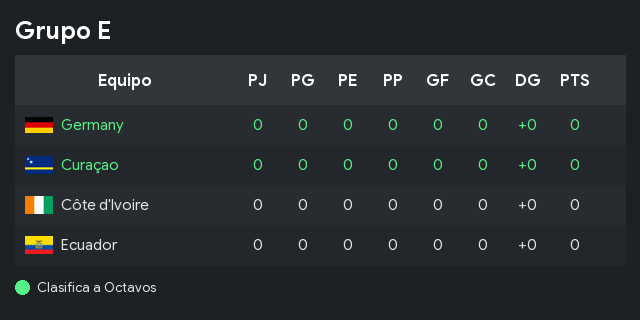
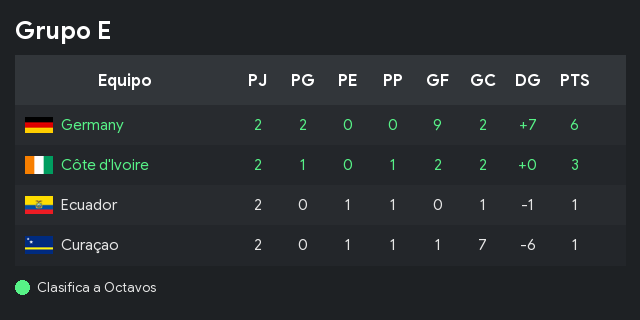
cambios finales

diff --git a/prode-bot/cogs/predicciones.py b/prode-bot/cogs/predicciones.py
@@ -60,6 +60,149 @@ def construir_embed_partidos_hoy():
 
     return embed
 
+
+ORDEN_FASES = ["Grupos", "Dieciseisavos", "Octavos", "Cuartos", "Semis", "Final"]
+
+def _label_pagina(fase, subfase):
+    """Devuelve el título de la página según fase y subfase."""
+    if fase == "Grupos":
+        return f"📋 Mis predicciones — Fecha {subfase}"
+    labels = {
+        "Dieciseisavos": "📋 Mis predicciones — 16avos de Final",
+        "Octavos":       "📋 Mis predicciones — Octavos de Final",
+        "Cuartos":       "📋 Mis predicciones — Cuartos de Final",
+        "Semis":         "📋 Mis predicciones — Semifinales",
+        "Final":         "📋 Mis predicciones — Final y 3er Puesto",
+    }
+    return labels.get(fase, f"📋 Mis predicciones — {fase}")
+
+
+def _construir_paginas(predicciones):
+    from collections import defaultdict
+
+    grupos_preds = [p for p in predicciones if p["fase"] == "Grupos"]
+    otras_preds  = [p for p in predicciones if p["fase"] != "Grupos"]
+
+    paginas = []
+
+    # ── Fase de Grupos: dividir en 3 fechas de 24 partidos ──────────────────
+    if grupos_preds:
+        conn = get_connection()
+        cursor = conn.cursor()
+        cursor.execute("""
+            SELECT id FROM partidos
+            WHERE fase = 'Grupos'
+            ORDER BY fecha_hora, id
+        """)
+        orden_global = {row["id"]: idx for idx, row in enumerate(cursor.fetchall())}
+        conn.close()
+
+        por_fecha = defaultdict(list)
+        for p in grupos_preds:
+            pos = orden_global.get(p["partido_id"], 0)
+            fecha_num = (pos // 24) + 1
+            por_fecha[fecha_num].append(p)
+
+        for fecha_num in [1, 2, 3]:  # siempre las 3 fechas
+            preds_fecha = sorted(por_fecha.get(fecha_num, []), key=lambda x: x["fecha_hora"])
+            paginas.append((f"📋 Mis predicciones — Fecha {fecha_num}", preds_fecha))
+
+    # ── Fases eliminatorias ──────────────────────────────────────────────────
+    fases_orden = ["Dieciseisavos", "Octavos", "Cuartos", "Semis", "Final"]
+    por_fase = defaultdict(list)
+    for p in otras_preds:
+        por_fase[p["fase"]].append(p)
+
+    for fase in fases_orden:
+        if fase in por_fase:
+            paginas.append((_label_pagina(fase, None), por_fase[fase]))
+
+    # Páginas placeholder para fases futuras sin predicciones aún
+    fases_con_preds = set(por_fase.keys())
+    for fase in fases_orden:
+        if fase not in fases_con_preds:
+            paginas.append((_label_pagina(fase, None), []))
+
+    return paginas
+
+
+def _construir_embed_pagina(titulo, preds, pagina_actual, total_paginas):
+    embed = discord.Embed(title=titulo, color=discord.Color.green())
+
+    if not preds:
+        embed.description = "_Todavía no hay predicciones para esta fase._"
+        pts_total = 0
+    else:
+        lineas = []
+        pts_total = 0
+        for p in preds:
+            fecha_display = datetime.strptime(p["fecha_hora"], "%Y-%m-%d %H:%M").strftime("%d/%m %H:%M")
+            tu_pred = f"{p['pred_local']}-{p['pred_visitante']}"
+            local    = f"{bandera(p['equipo_local'])} {p['equipo_local']}"
+            visitante = f"{bandera(p['equipo_visitante'])} {p['equipo_visitante']}"
+            if p["cerrado"]:
+                resultado = f"{p['real_local']}-{p['real_visitante']}"
+                pts = p["puntos"] if p["puntos"] is not None else 0
+                pts_total += pts
+                emoji_pts = "🎯" if pts == 3 else ("✅" if pts == 1 else "❌")
+                lineas.append(
+                    f"`#{p['partido_id']:>3}` {local} vs {visitante} — {fecha_display}\n"
+                    f"　　Pred: `{tu_pred}` · Real: `{resultado}` {emoji_pts} **+{pts} pts**"
+                )
+            else:
+                lineas.append(
+                    f"`#{p['partido_id']:>3}` {local} vs {visitante} — {fecha_display}\n"
+                    f"　　Pred: `{tu_pred}` ⏳"
+                )
+
+        embed.description = "\n".join(lineas)
+
+    cerrados = [p for p in preds if p["cerrado"]]
+    if cerrados:
+        embed.add_field(
+            name="Puntos en esta página",
+            value=f"**{pts_total} pts** de {len(cerrados)} partido{'s' if len(cerrados) != 1 else ''} jugado{'s' if len(cerrados) != 1 else ''}",
+            inline=False
+        )
+
+    embed.set_footer(text=f"Página {pagina_actual + 1} de {total_paginas}")
+    return embed
+
+
+class PrediccionesView(discord.ui.View):
+    def __init__(self, paginas, pagina_actual=0):
+        super().__init__(timeout=120)
+        self.paginas = paginas          # lista de (titulo, [preds])
+        self.pagina_actual = pagina_actual
+        self._actualizar_botones()
+
+    def _actualizar_botones(self):
+        self.btn_anterior.disabled = self.pagina_actual == 0
+        self.btn_siguiente.disabled = self.pagina_actual == len(self.paginas) - 1
+
+    def _embed_actual(self):
+        titulo, preds = self.paginas[self.pagina_actual]
+        return _construir_embed_pagina(titulo, preds, self.pagina_actual, len(self.paginas))
+
+    @discord.ui.button(label="◀", style=discord.ButtonStyle.secondary)
+    async def btn_anterior(self, interaction: discord.Interaction, button: discord.ui.Button):
+        self.pagina_actual -= 1
+        self._actualizar_botones()
+        await interaction.response.edit_message(embed=self._embed_actual(), view=self)
+
+    @discord.ui.button(label="▶", style=discord.ButtonStyle.secondary)
+    async def btn_siguiente(self, interaction: discord.Interaction, button: discord.ui.Button):
+        self.pagina_actual += 1
+        self._actualizar_botones()
+        await interaction.response.edit_message(embed=self._embed_actual(), view=self)
+
+    async def on_timeout(self):
+        # Deshabilitar botones cuando expira
+        for item in self.children:
+            item.disabled = True
+
+
+
 class Predicciones(commands.Cog):
     def __init__(self, bot):
         self.bot = bot
@@ -212,7 +355,8 @@ class Predicciones(commands.Cog):
         cursor = conn.cursor()
 
         cursor.execute("""
-            SELECT p.*, pa.equipo_local, pa.equipo_visitante, pa.fecha_hora, pa.cerrado,
+            SELECT p.*, pa.equipo_local, pa.equipo_visitante, pa.fecha_hora,
+                   pa.cerrado, pa.fase,
                    pa.goles_local AS real_local, pa.goles_visitante AS real_visitante
             FROM predicciones p
             JOIN partidos pa ON p.partido_id = pa.id
@@ -226,28 +370,11 @@ class Predicciones(commands.Cog):
             await interaction.response.send_message("No tenés predicciones cargadas todavía.", ephemeral=True)
             return
 
-        embed = discord.Embed(title="📋 Mis predicciones", color=discord.Color.green())
+        paginas = _construir_paginas(predicciones)
+        view    = PrediccionesView(paginas)
+        embed   = view._embed_actual()
 
-        lineas = []
-        for p in predicciones:
-            fecha_display = datetime.strptime(p["fecha_hora"], "%Y-%m-%d %H:%M").strftime("%d/%m %H:%M")
-            tu_pred = f"{p['pred_local']}-{p['pred_visitante']}"
-            local = f"{bandera(p['equipo_local'])} {p['equipo_local']}"
-            visitante = f"{bandera(p['equipo_visitante'])} {p['equipo_visitante']}"
-            if p["cerrado"]:
-                resultado = f"{p['real_local']}-{p['real_visitante']}"
-                pts = p["puntos"] if p["puntos"] is not None else 0
-                emoji_pts = "🎯" if pts == 3 else ("✅" if pts == 1 else "❌")
-                lineas.append(f"`#{p['partido_id']:>3}` {local} vs {visitante} — {fecha_display} | Pred: `{tu_pred}` Real: `{resultado}` {emoji_pts} +{pts}")
-            else:
-                lineas.append(f"`#{p['partido_id']:>3}` {local} vs {visitante} — {fecha_display} | Pred: `{tu_pred}` ⏳")
-
-        texto = "\n".join(lineas)
-        if len(texto) > 4000:
-            texto = texto[:4000] + "\n... (truncado)"
-
-        embed.description = texto
-        await interaction.response.send_message(embed=embed, ephemeral=True)
+        await interaction.response.send_message(embed=embed, view=view, ephemeral=True)
 
     @app_commands.command(name="partidos_hoy", description="Mostrá los partidos de hoy con su ID")
     async def partidos_hoy(self, interaction: discord.Interaction):

diff --git a/prode-bot/cogs/resultados_auto.py b/prode-bot/cogs/resultados_auto.py
@@ -30,20 +30,31 @@ def buscar_en_db(home_raw, away_raw):
             break
     return home_db, away_db
 
-async def get_fixtures_espn():
-    """Obtiene los eventos deportivos de ESPN de forma asíncrona."""
-    hoy = datetime.now(TZ_ARG).strftime("%Y%m%d")
+async def get_fixtures_espn(fechas: list):
+    """
+    Obtiene eventos de ESPN para una o más fechas (formato YYYYMMDD).
+    Devuelve lista de eventos deduplicada por ID de competencia.
+    """
+    vistos = set()
+    eventos = []
+
     async with aiohttp.ClientSession() as session:
-        try:
-            async with session.get(f"{ESPN_API_URL}?dates={hoy}", timeout=10) as resp:
-                if resp.status != 200:
-                    print(f"[resultados_auto] ❌ Error HTTP ESPN: {resp.status}")
-                    return []
-                data = await resp.json()
-                return data.get("events", [])
-        except Exception as e:
-            print(f"[resultados_auto] ❌ Error al conectar con ESPN: {e}")
-            return []
+        for fecha in fechas:
+            try:
+                async with session.get(f"{ESPN_API_URL}?dates={fecha}", timeout=10) as resp:
+                    if resp.status != 200:
+                        print(f"[resultados_auto] ❌ Error HTTP ESPN ({fecha}): {resp.status}")
+                        continue
+                    data = await resp.json()
+                    for event in data.get("events", []):
+                        eid = event.get("id")
+                        if eid and eid not in vistos:
+                            vistos.add(eid)
+                            eventos.append(event)
+            except Exception as e:
+                print(f"[resultados_auto] ❌ Error al conectar con ESPN ({fecha}): {e}")
+
+    return eventos
 
 async def procesar_resultado_espn(event, bot=None):
     """Extrae los datos de ESPN y actualiza la DB si el partido está en curso o finalizó."""
@@ -59,25 +70,29 @@ async def procesar_resultado_espn(event, bot=None):
 
         if team1["homeAway"] == "home":
             home_raw, away_raw = team1["team"]["name"], team2["team"]["name"]
-            home_score, away_score = int(team1.get("score", 0)), int(team2.get("score", 0))
+            home_score, away_score = int(team1.get("score", 0) or 0), int(team2.get("score", 0) or 0)
         else:
             home_raw, away_raw = team2["team"]["name"], team1["team"]["name"]
-            home_score, away_score = int(team2.get("score", 0)), int(team1.get("score", 0))
+            home_score, away_score = int(team2.get("score", 0) or 0), int(team1.get("score", 0) or 0)
 
-    except (KeyError, IndexError) as e:
+    except (KeyError, IndexError, ValueError) as e:
         print(f"[resultados_auto] Error parseando JSON de ESPN: {e}")
         return False
 
     home_db, away_db = buscar_en_db(home_raw, away_raw)
     if not home_db or not away_db:
+        STATUSES_IGNORAR = {"STATUS_SCHEDULED", "STATUS_POSTPONED", "STATUS_CANCELLED", "STATUS_DELAYED"}
+        if status not in STATUSES_IGNORAR:
+            print(f"[resultados_auto] ⚠️  No se reconoció: '{home_raw}' vs '{away_raw}' (status={status})")
         return False
 
     # --- Clasificación del status ---
     STATUSES_IGNORAR   = {"STATUS_SCHEDULED", "STATUS_POSTPONED", "STATUS_CANCELLED", "STATUS_DELAYED"}
-    STATUSES_EN_VIVO   = {"STATUS_IN_PROGRESS", "STATUS_HALFTIME", "STATUS_END_PERIOD", "STATUS_FIRST_HALF", "STATUS_SECOND_HALF"}
-    STATUSES_FINALES   = {"STATUS_FINAL", "STATUS_FULL_TIME"}
+    STATUSES_EN_VIVO   = {"STATUS_IN_PROGRESS", "STATUS_HALFTIME", "STATUS_END_PERIOD",
+                          "STATUS_FIRST_HALF", "STATUS_SECOND_HALF"}
+    STATUSES_FINALES   = {"STATUS_FINAL", "STATUS_FULL_TIME", "STATUS_FINAL_AET", "STATUS_FINAL_PEN"}
 
-    # Partido terminado: nombre explícito, o flag completed=True, o state=="post"
+    # Partido terminado: nombre explícito, flag completed=True, o state=="post"
     es_final = status in STATUSES_FINALES or completed or state == "post"
     # STATUS_END_PERIOD es ambiguo (puede ser descanso); solo cerramos si completed=True
     if status == "STATUS_END_PERIOD" and not completed:
@@ -242,18 +257,28 @@ class ResultadosAuto(commands.Cog):
         ahora = datetime.now(TZ_ARG)
         hora  = ahora.hour
 
-        if not (13 <= hora <= 23 or hora <= 3):
+        # Activo de 13:00 a 03:59 ARG (cubre el rango real de partidos: 13hs a ~03hs)
+        # Fuera de ese rango no hay partidos, no tiene sentido consultar
+        if not (hora >= 13 or hora <= 3):
             return
 
         conn = get_connection()
         cursor = conn.cursor()
-        hoy   = ahora.strftime("%Y-%m-%d")
-        inicio = f"{hoy} 06:00"
-        fin    = (ahora + timedelta(days=1)).strftime("%Y-%m-%d") + " 05:59"
+
+        # Calcular ventana de jornada correcta según la hora actual
+        # Si estamos entre medianoche y las 05:59, la jornada empezó "ayer"
+        if hora < 6:
+            inicio_jornada = (ahora - timedelta(days=1)).strftime("%Y-%m-%d") + " 06:00"
+        else:
+            inicio_jornada = ahora.strftime("%Y-%m-%d") + " 06:00"
+
+        fin_jornada = (
+            datetime.strptime(inicio_jornada, "%Y-%m-%d %H:%M") + timedelta(days=1)
+        ).strftime("%Y-%m-%d %H:%M")  # = 06:00 del día siguiente = equivalente a 05:59
 
         cursor.execute(
-            "SELECT COUNT(*) as total FROM partidos WHERE fecha_hora >= ? AND fecha_hora <= ? AND cerrado = 0",
-            (inicio, fin)
+            "SELECT COUNT(*) as total FROM partidos WHERE fecha_hora >= ? AND fecha_hora < ? AND cerrado = 0",
+            (inicio_jornada, fin_jornada)
         )
         pendientes = cursor.fetchone()["total"]
         conn.close()
@@ -261,9 +286,20 @@ class ResultadosAuto(commands.Cog):
         if pendientes == 0:
             return
 
+        # Entre medianoche y las 03:59 ARG, ESPN puede tener los partidos
+        # indexados bajo la fecha anterior → pedimos ambas fechas para no perder nada
+        fechas_espn = [ahora.strftime("%Y%m%d")]
+        if hora < 6:
+            fecha_ayer = (ahora - timedelta(days=1)).strftime("%Y%m%d")
+            fechas_espn.append(fecha_ayer)
+
         try:
-            eventos_espn = await get_fixtures_espn()
-            print(f"[resultados_auto] {ahora.strftime('%H:%M')} — Consultando API ESPN. {pendientes} pendientes en DB")
+            eventos_espn = await get_fixtures_espn(fechas_espn)
+            print(
+                f"[resultados_auto] {ahora.strftime('%H:%M')} — "
+                f"ESPN {'+'.join(fechas_espn)}. "
+                f"{pendientes} pendientes, {len(eventos_espn)} eventos recibidos."
+            )
             for event in eventos_espn:
                 await procesar_resultado_espn(event, bot=self.bot)
         except Exception as e: